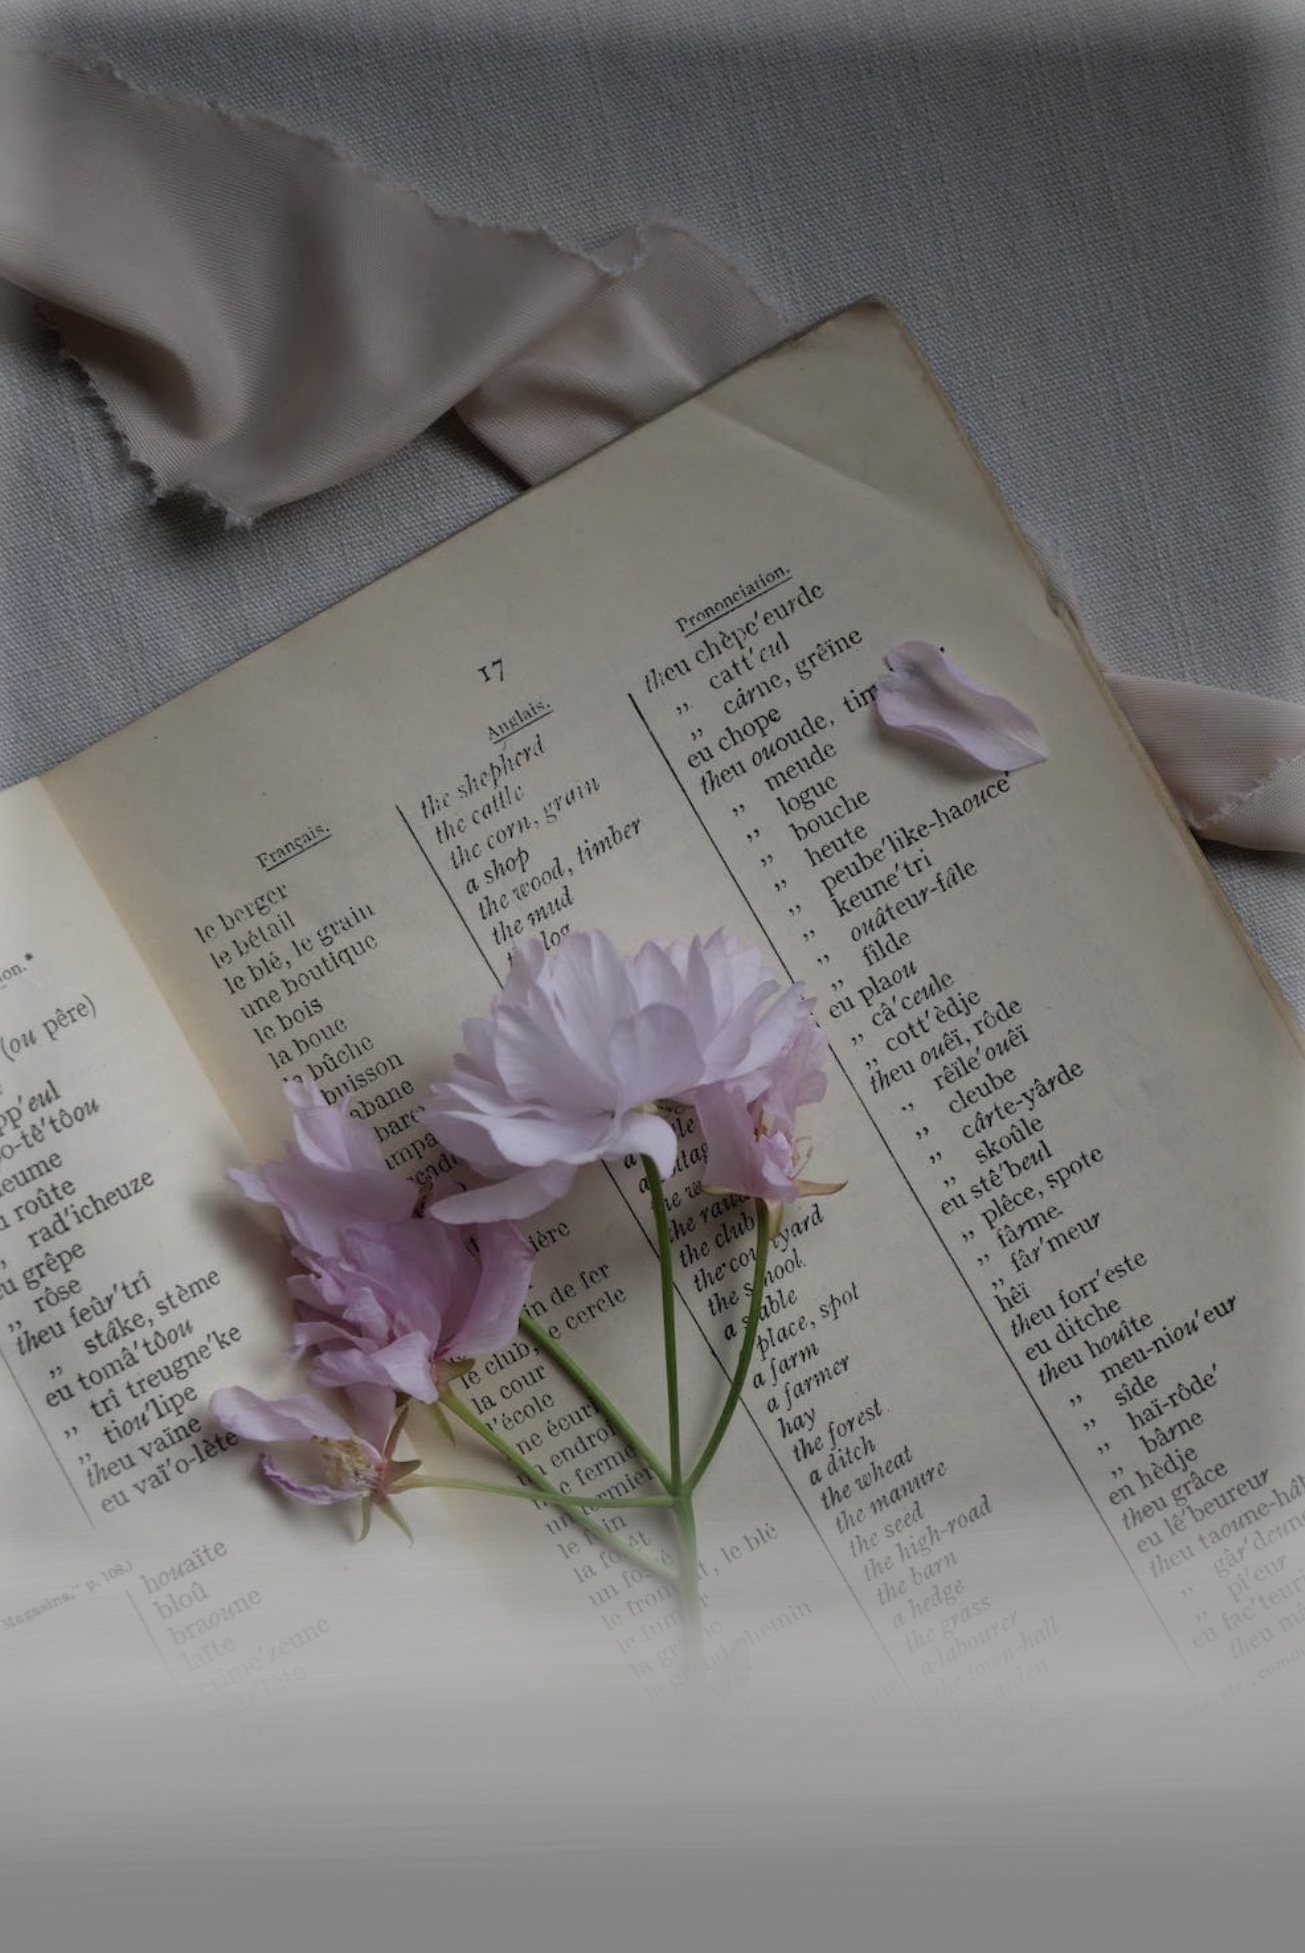
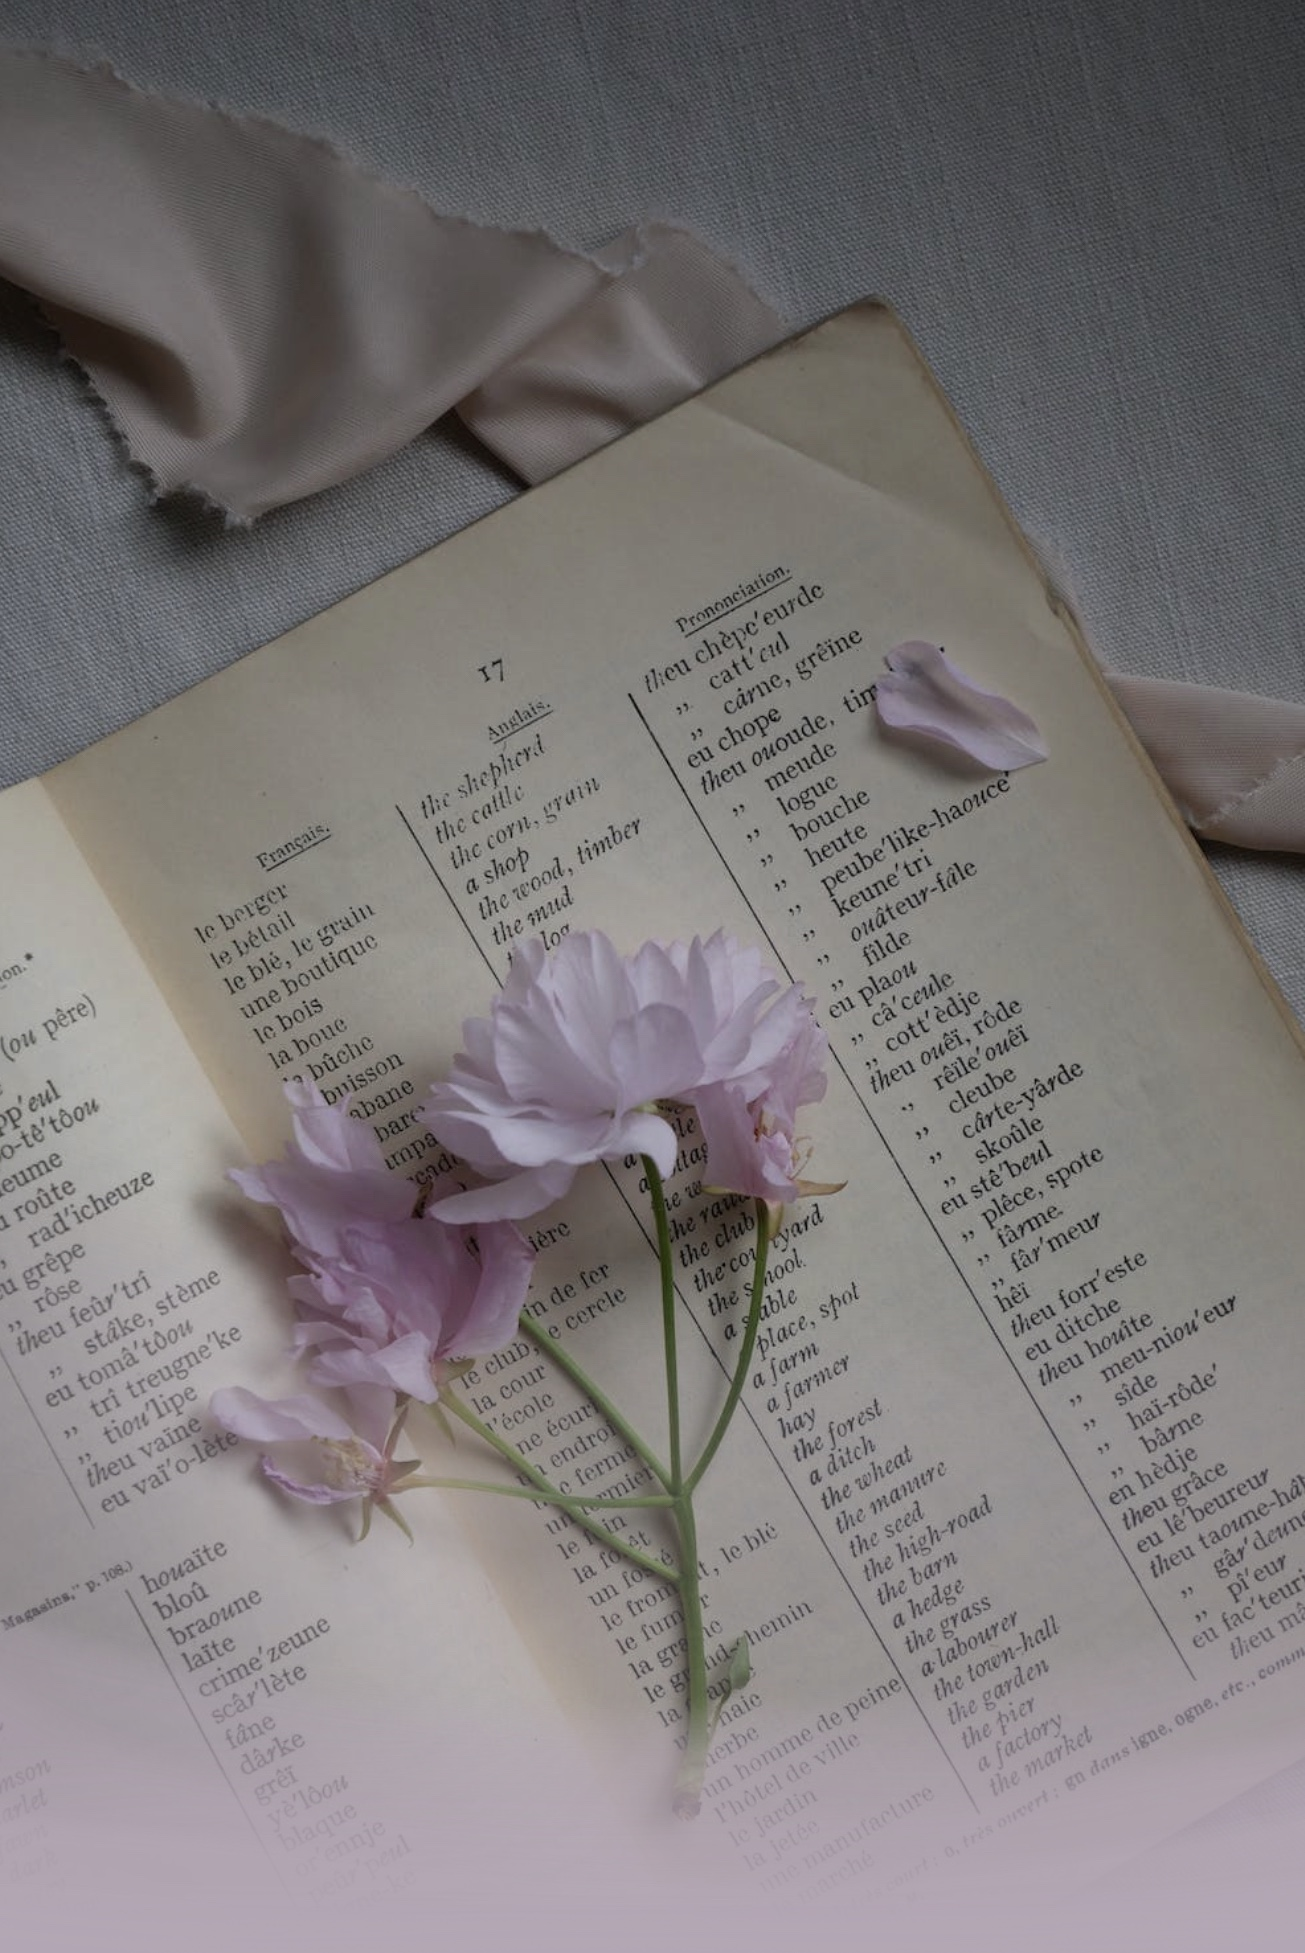
All background fades looking bueno

diff --git a/src/App.css b/src/App.css
@@ -4,7 +4,7 @@ a {
 }
 
 body {
-    background-image:url("images/wide-tea-book.jpg");
+    background-image:url("images/wide-tea.jpg");
     background-size: 100%;
     background-repeat: no-repeat;
     background-color:  #b8aa9f;
